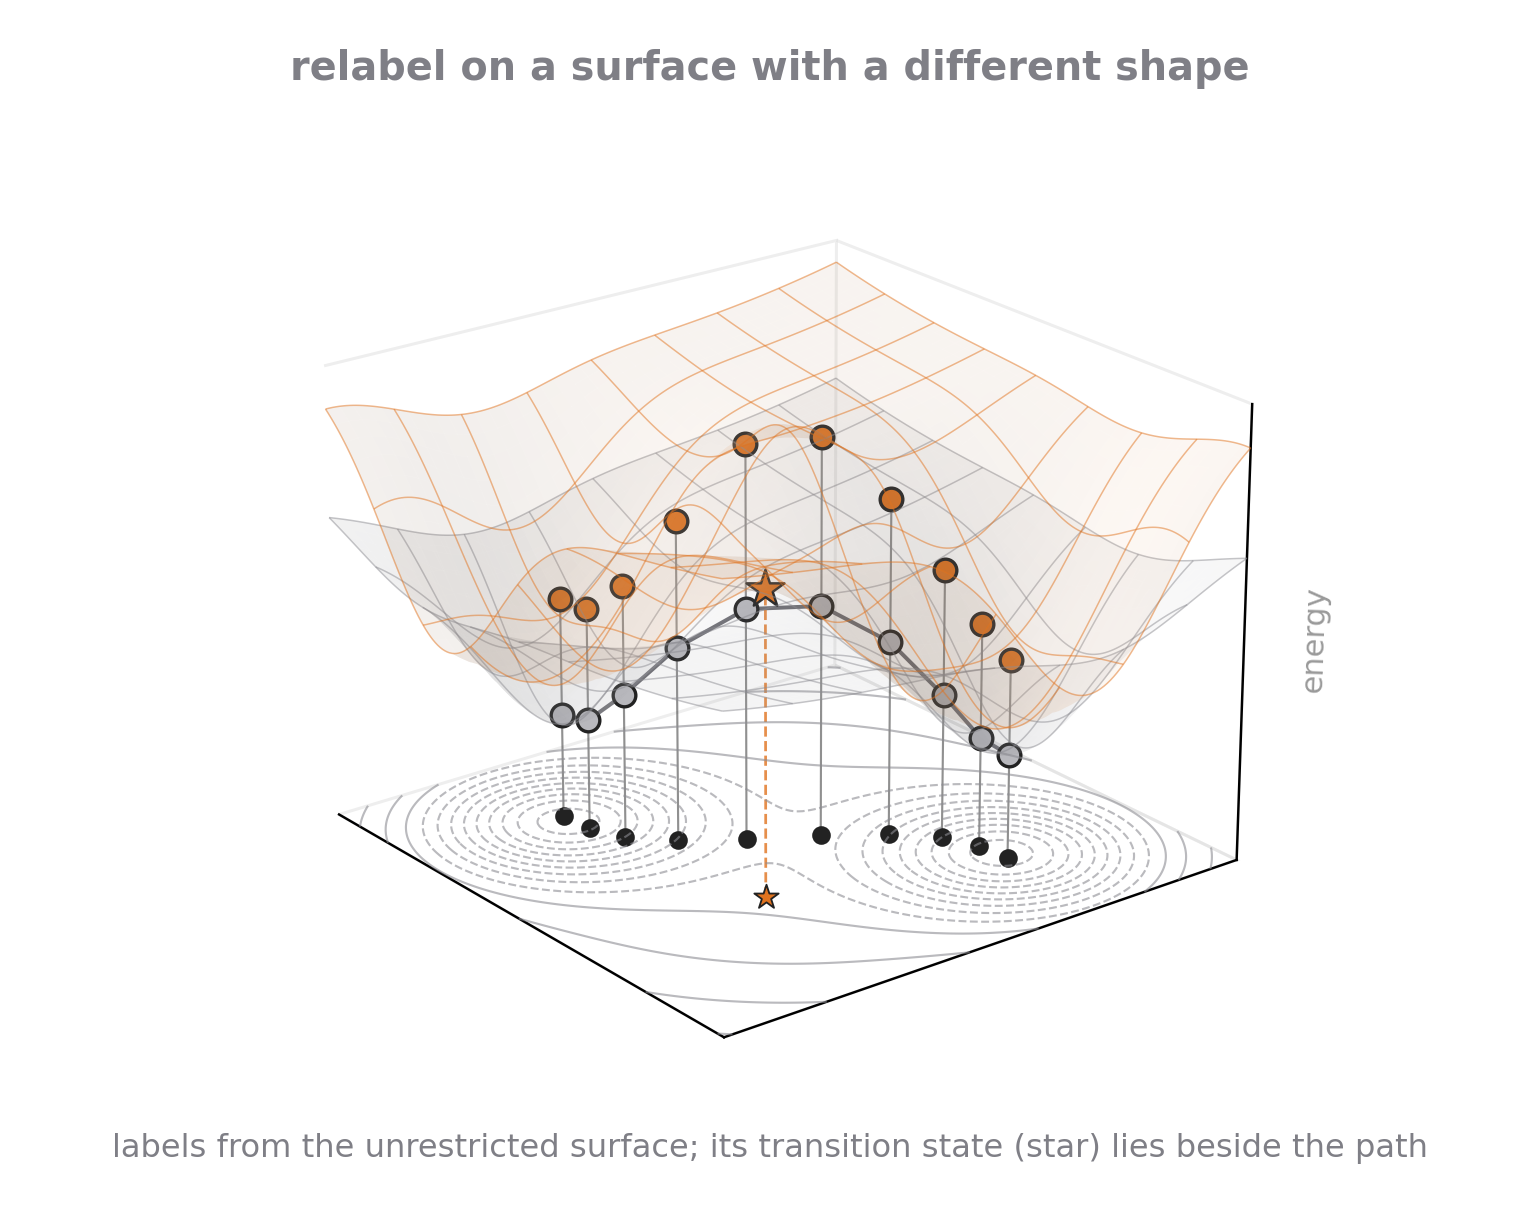
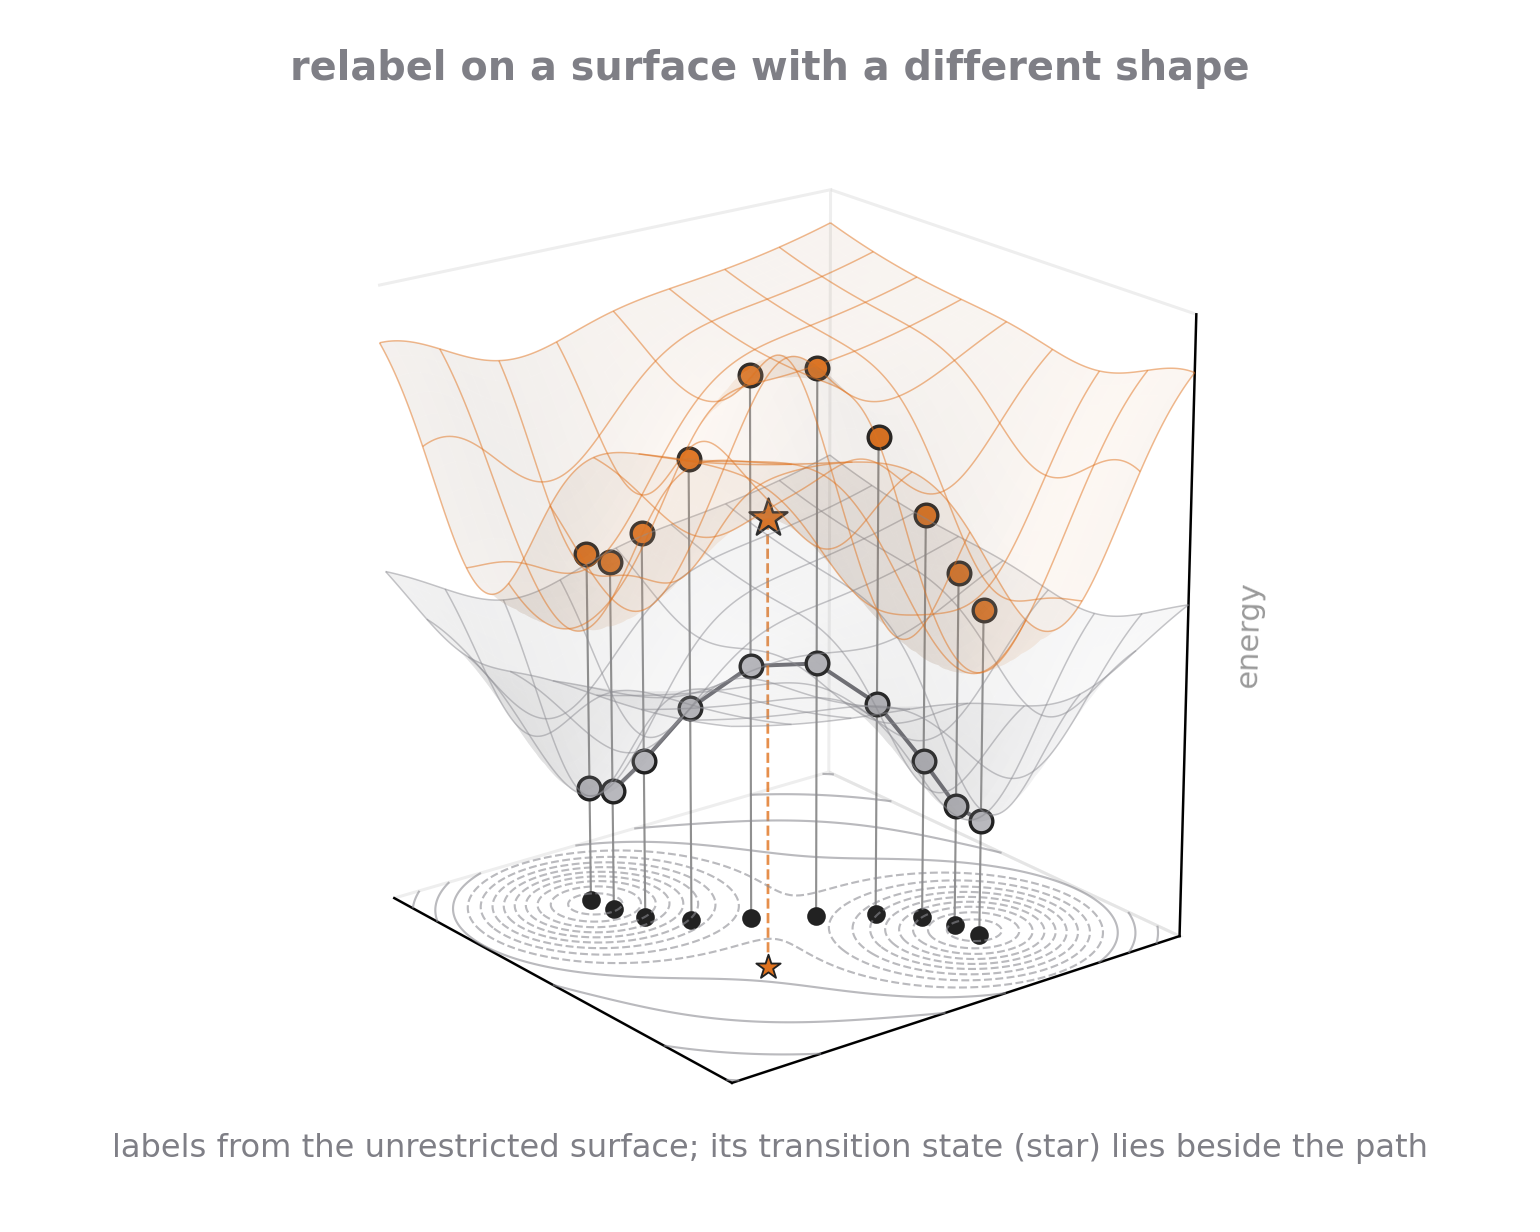
Defence talk: RQ2 picture v2, unrestricted surface clearly above in energy

diff --git a/docs/defence/draw_dataset_pics.py b/docs/defence/draw_dataset_pics.py
@@ -414,7 +414,7 @@ def pes_bs(x, y):
     across = np.exp(-((v - 0.85) ** 2) / 0.30)
     along = 0.45 + 0.55 * (1.0 - np.exp(-(u ** 2) / 0.35))
     ridge = 0.35 * np.exp(-(v ** 2) / 0.12) * np.exp(-(u ** 2) / 0.6)   # the restricted saddle region is raised
-    return pes(x, y, "cheap") + 0.75 - 0.95 * across * along + ridge
+    return pes(x, y, "cheap") + 1.35 - 0.95 * across * along + ridge
 
 
 def saddle_of(f):
@@ -465,8 +465,10 @@ def panel_rq(ax, mode):
         ax.scatter([sx], [sy], [sz], s=170, marker="*", color=NEW, edgecolor=INK, lw=0.8, depthshade=False)
         ax.scatter([sx], [sy], [floor], s=70, marker="*", color=NEW, edgecolor=INK, lw=0.6, depthshade=False)
         ax.plot([sx, sx], [sy, sy], [floor, sz], color=NEW, lw=0.9, ls="--", alpha=0.8)
-    ax.set_zlim(floor, 1.25 if mode == "rq2" else 0.8); ax.set_xlim(-1.9, 1.9); ax.set_ylim(-1.9, 1.9)
-    ax.view_init(elev=22 if mode == "rq2" else 26, azim=-38)
+    ax.set_zlim(floor, 1.9 if mode == "rq2" else 0.8); ax.set_xlim(-1.9, 1.9); ax.set_ylim(-1.9, 1.9)
+    if mode == "rq2":
+        ax.set_box_aspect((1, 1, 1.15))
+    ax.view_init(elev=20 if mode == "rq2" else 26, azim=-38)
     ax.set_xticks([]); ax.set_yticks([]); ax.set_zticks([])
     ax.set_zlabel("energy", fontsize=10, color=GREY, labelpad=-8)
     ax.xaxis.pane.fill = ax.yaxis.pane.fill = ax.zaxis.pane.fill = False
